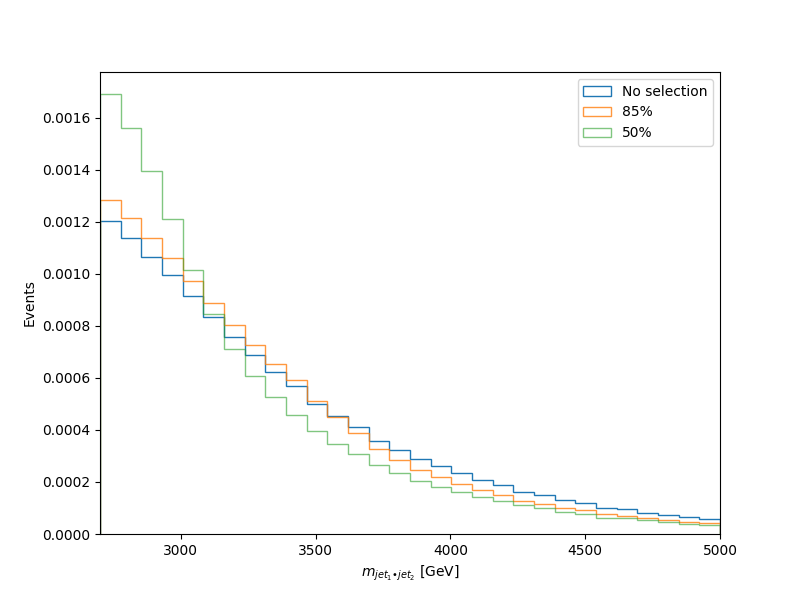
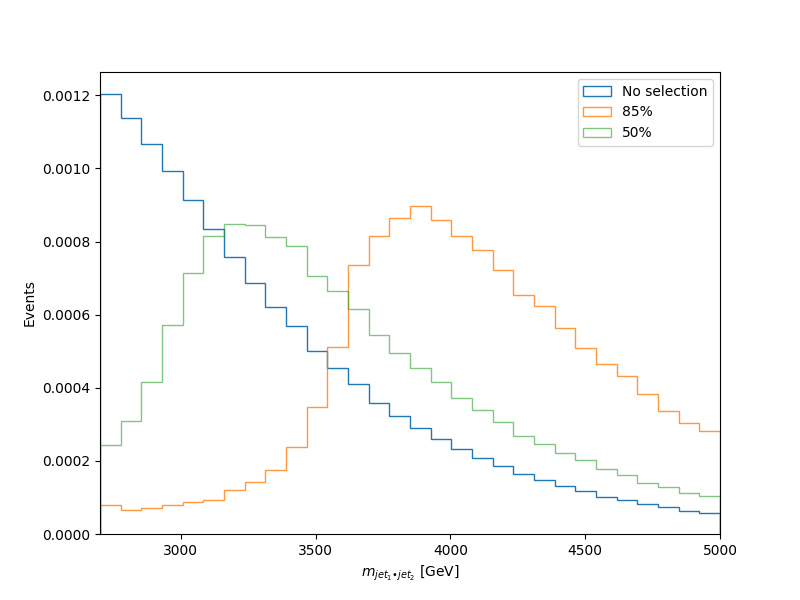
Testing with minmax scaling and 84, 14 layer dimensions

diff --git a/test.py b/test.py
@@ -205,8 +205,8 @@ selected_values = loss_bkg_all_total[cumulative_sum <= threshold]
 nbins = 30
 fig, axes = plt.subplots(figsize=(8,6))
 axes.hist([bkg.mj1j2], nbins, range=(2700, 5000), density=1, histtype='step', label=['No selection'], stacked=True, alpha=1)
-axes.hist([bkg.mj1j2[cumulative_sum <= 0.85 * total_sum]], nbins, range=(2700, 5000), density=1, histtype='step', label=['85%'], stacked=True, alpha=0.8)
-axes.hist([bkg.mj1j2[cumulative_sum <= 0.5 * total_sum]], nbins, range=(2700, 5000), density=1, histtype='step', label=['50%'], stacked=True, alpha=0.6)
+axes.hist([bkg.mj1j2[cumulative_sum >= 0.85 * total_sum]], nbins, range=(2700, 5000), density=1, histtype='step', label=['85%'], stacked=True, alpha=0.8)
+axes.hist([bkg.mj1j2[cumulative_sum >= 0.5 * total_sum]], nbins, range=(2700, 5000), density=1, histtype='step', label=['50%'], stacked=True, alpha=0.6)
 axes.set_xlabel(r"$m_{jet_1•jet_2}$ [GeV]")
 axes.set_ylabel("Events")
 axes.set_xlim(2700, 5000)
